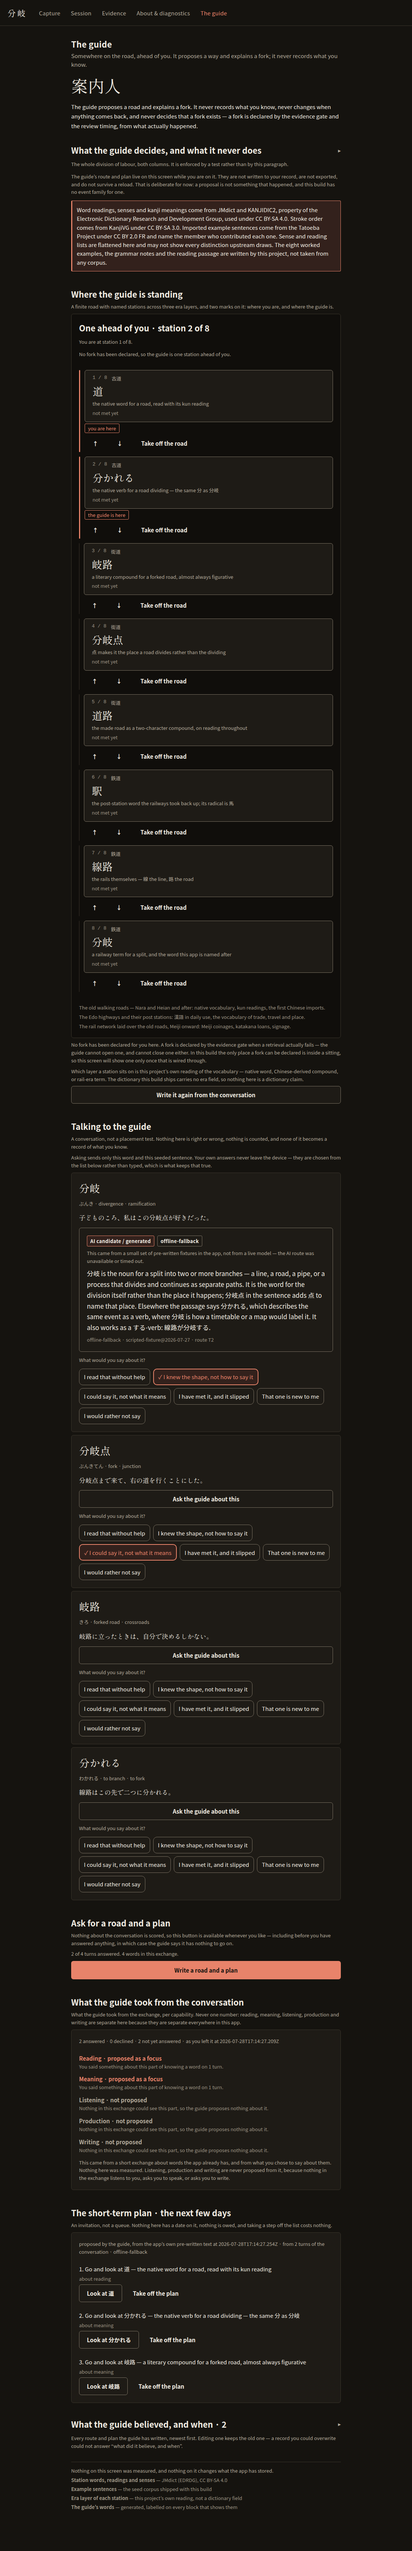
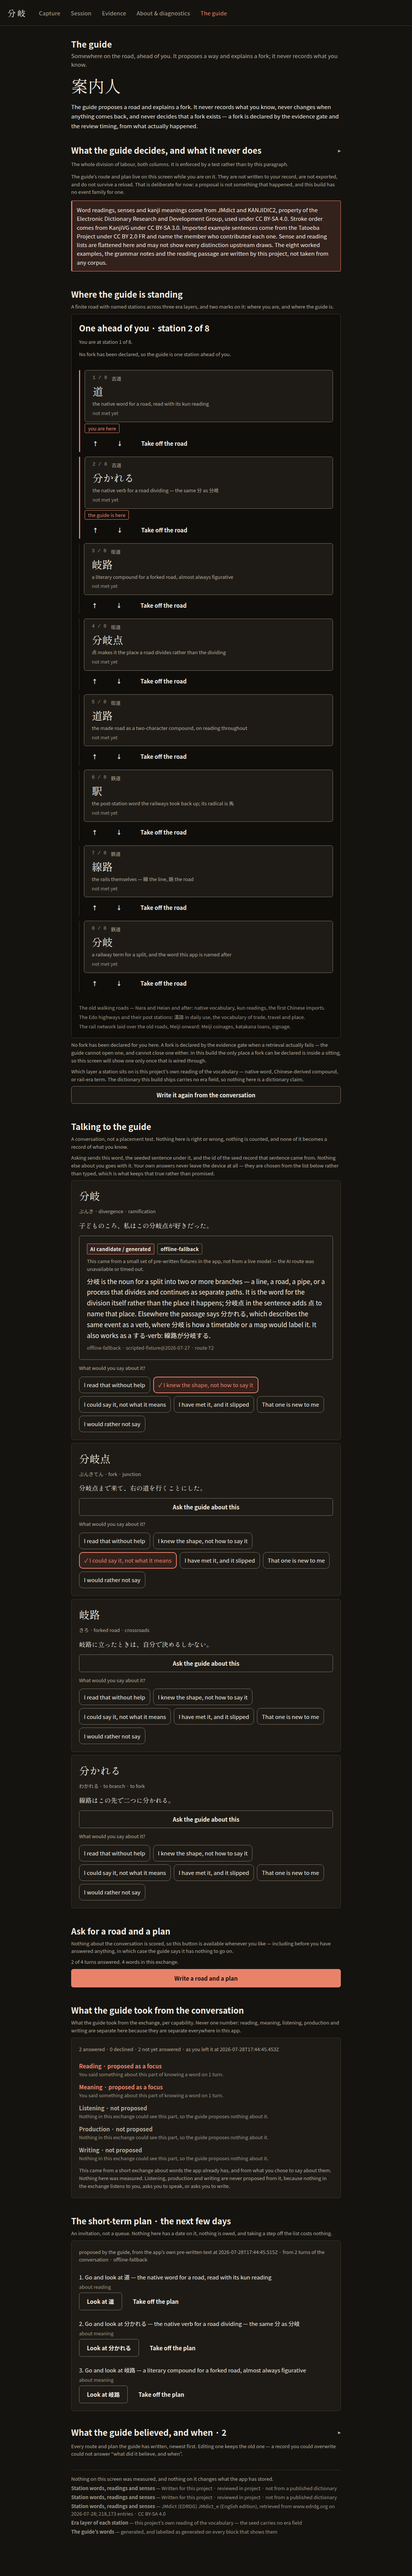
B6(guide): derive the attribution from the seed, and enumerate what is sent
Two self-review fixes, both of the drift class this project keeps catching.

The attribution footer stated 'JMdict (EDRDG), CC BY-SA 4.0' as a literal. That
is correct today and would keep being said after packages/seed/data/provenance.json
changed. It now comes from provenanceSummary over the first station's own
provenance records — the same function the word and kanji pages render — and a
new assertion fails if any guide file states a licence as a literal outside a
comment. The two lines that have no provenance record (the era layer, the
guide's own words) still appear, saying so, because omitting them would leave a
reader to assume the whole screen is sourced.

The conversation panel said "asking sends only this word and this seeded
sentence". The request also carries the seed record's id. "Only" was nearly
true, and the value of a sentence like that is that a reader can check it
against AiThreadContext. It now enumerates all three fields.

Screenshots re-taken against the rebuilt export.

Claude-Session: https://claude.ai/code/session_013RpFnk2DujKCqfdoidgckc

Changed region(s): [[0.1545, 0.0, 0.8345, 0.9969]]

diff --git a/apps/app/test/guide-boundary.test.ts b/apps/app/test/guide-boundary.test.ts
@@ -35,6 +35,8 @@ import { describe, expect, it } from 'vitest';
 import { CANDIDATE_LABEL, OFFLINE_FALLBACK_LABEL } from '@bunki/ai';
 import { GUIDE_ACTION_KINDS, GUIDE_AUTHORITY, GUIDE_BOUNDARY_RULE } from '@bunki/domain';
 
+import { guideAttributionLines } from '../src/ui/guide/guide-content.ts';
+
 const APP_ROOT = resolve(dirname(fileURLToPath(import.meta.url)), '..');
 const GUIDE_UI = resolve(APP_ROOT, 'src/ui/guide');
 const GUIDE_SCREEN = resolve(APP_ROOT, 'src/screens/guide-screen.tsx');
@@ -237,6 +239,39 @@ describe('the guide surface makes no claim about what the learner knows', () => 
   it('says plainly that its records are not part of the learner’s record', () => {
     const screen = read(GUIDE_SCREEN);
     expect(screen).toContain('not written to your record');
+  });
+
+  /**
+   * The licence a source requires be shown is read, never retyped.
+   *
+   * A screen that restated `CC BY-SA 4.0` would be correct today and would keep
+   * saying it after the seed's provenance changed — the drift class this project
+   * has been bitten by twice on the licence check. `guideAttributionLines`
+   * derives every sourced line from `provenanceSummary`, which is the same
+   * function the word and kanji pages render.
+   */
+  it('derives its attribution from the seed rather than typing a licence', () => {
+    const lines = guideAttributionLines();
+    const sourced = lines.filter((line) => line.field.startsWith('Station words'));
+    expect(sourced.length).toBeGreaterThan(0);
+    // The real licence, arrived at by reading the seed, not by matching a string
+    // this test also typed: it has to name EDRDG because that is what the data
+    // says, and the assertion fails if the derivation stops working.
+    expect(sourced.map((line) => line.source).join(' ')).toMatch(/EDRDG/);
+
+    // Comments stripped: `guide-content.ts` has to *name* the literal it avoids
+    // in order to explain why it avoids it, and a scan that counted prose would
+    // make every explanation of the rule a violation of it.
+    const literals = guideFiles
+      .filter((file) => /CC BY-SA \d/.test(stripComments(read(file))))
+      .map(rel);
+    expect(literals, 'a guide file states a licence as a literal').toEqual([]);
+  });
+
+  it('says which lines are not sourced at all, rather than omitting them', () => {
+    const fields = guideAttributionLines().map((line) => line.field);
+    expect(fields).toContain('Era layer of each station');
+    expect(fields).toContain('The guide’s words');
   });
 
   it('acknowledges the dictionary it displays, unconditionally', () => {

diff --git a/apps/app/src/ui/guide/guide-content.ts b/apps/app/src/ui/guide/guide-content.ts
@@ -41,7 +41,8 @@
 import type { RouteWaypointCandidate } from '@bunki/domain';
 
 import { seededContextFor } from '../../candidate/candidate-context.ts';
-import { findLexemeById } from '../../data/catalog.ts';
+import { findLexemeById, findLexemeByHeadword } from '../../data/catalog.ts';
+import { distinctProvenance, provenanceEntries, provenanceSummary } from '../../data/provenance.ts';
 import type { GuidePromptWithId } from './guide-types.ts';
 
 /** The seed lexeme behind each station, in road order. */
@@ -185,3 +186,48 @@ export const GUIDE_PROMPTS: readonly GuidePromptWithId[] = TURN_LEXEME_IDS.flatM
 export const DEFAULT_ROUTE_TITLE = '分かれた道';
 
 export const DEFAULT_PLAN_TITLE = 'The next few stations';
+
+/**
+ * Where each thing on this screen came from, read out of the seed's own
+ * provenance rather than typed here.
+ *
+ * A hard-coded `'JMdict (EDRDG), CC BY-SA 4.0'` would be correct today and
+ * would go stale silently: the licence lives in `packages/seed/data/provenance.json`
+ * and a screen that restated it would keep saying the old one after it changed.
+ * `provenanceSummary` is the same function the word and kanji pages render, so
+ * all three surfaces say one thing.
+ *
+ * The lines for the era layer and for the guide's own words have no provenance
+ * record because they are not sourced data — one is this project's reading and
+ * the other is generated. Saying so is the point; omitting them would leave a
+ * reader to assume the whole screen is sourced.
+ */
+export function guideAttributionLines(): readonly { field: string; source: string }[] {
+  const station = ROUTE_CANDIDATES[0];
+  const lexeme = station === undefined ? null : findLexemeByHeadword(station.targetForm);
+  const lines: { field: string; source: string }[] = [];
+
+  if (lexeme !== null) {
+    const distinct = distinctProvenance(
+      provenanceEntries(lexeme.provenance).map((entry) => entry.record),
+    );
+    for (const record of distinct) {
+      lines.push({
+        field: 'Station words, readings and senses',
+        source: provenanceSummary(record),
+      });
+    }
+  }
+
+  lines.push(
+    {
+      field: 'Era layer of each station',
+      source: 'this project’s own reading of the vocabulary — the seed carries no era field',
+    },
+    {
+      field: 'The guide’s words',
+      source: 'generated, and labelled as generated on every block that shows them',
+    },
+  );
+  return lines;
+}

diff --git a/apps/app/src/screens/guide-screen.tsx b/apps/app/src/screens/guide-screen.tsx
@@ -45,6 +45,7 @@ import { conversationProgress } from '@bunki/domain';
 import { AttributionFooter } from '../ui/attribution.tsx';
 import {
   GUIDE_PROMPTS,
+  guideAttributionLines,
   GuideBoundaryPanel,
   GuideConversationPanel,
   GuideEstimatePanel,
@@ -211,19 +212,13 @@ export function GuideScreen({ onOpenWord, declaredBranches = [] }: GuideScreenPr
 
       <GuideHistoryPanel ledger={guide.ledger} />
 
+      {/*
+        Derived, not typed. The licence a source requires be shown lives in the
+        seed's provenance records, and a screen that restated it would keep
+        saying the old one after it changed.
+      */}
       <AttributionFooter
-        lines={[
-          { field: 'Station words, readings and senses', source: 'JMdict (EDRDG), CC BY-SA 4.0' },
-          { field: 'Example sentences', source: 'the seed corpus shipped with this build' },
-          {
-            field: 'Era layer of each station',
-            source: 'this project’s own reading, not a dictionary field',
-          },
-          {
-            field: 'The guide’s words',
-            source: 'generated, labelled on every block that shows them',
-          },
-        ]}
+        lines={guideAttributionLines()}
         standing="Nothing on this screen was measured, and nothing on it changes what the app has stored."
         testID="guide-attribution"
       />

diff --git a/apps/app/src/ui/guide/guide-conversation.tsx b/apps/app/src/ui/guide/guide-conversation.tsx
@@ -40,9 +40,17 @@ export interface GuideConversationPanelProps {
   readonly testID?: string | undefined;
 }
 
-/** What is sent, said before anything is sent (OD-08, REQ-ARCH-07). */
+/**
+ * What is sent, said before anything is sent (OD-08, REQ-ARCH-07).
+ *
+ * Enumerated rather than summarised. The request carries exactly the three
+ * fields `AiThreadContext` holds — the written form, the seeded sentence, and
+ * the id of the seed record it came from — plus the envelope's own prompt
+ * metadata. "Only the sentence" would have been *nearly* true, and the whole
+ * value of a sentence like this is that a reader can check it against the type.
+ */
 const SENDING_NOTE =
-  'Asking sends only this word and this seeded sentence. Your own answers never leave the device — they are chosen from the list below rather than typed, which is what keeps that true.';
+  'Asking sends this word, the seeded sentence under it, and the id of the seed record that sentence came from. Nothing else about you goes with it. Your own answers never leave the device at all — they are chosen from the list below rather than typed, which is what keeps that true rather than promised.';
 
 export function GuideConversationPanel({
   conversation,

diff --git a/apps/app/src/ui/guide/index.ts b/apps/app/src/ui/guide/index.ts
@@ -7,7 +7,12 @@
  * the absence rather than trusting it.
  */
 
-export { GUIDE_PROMPTS, LAYER_ATTRIBUTION_NOTE, ROUTE_CANDIDATES } from './guide-content.ts';
+export {
+  GUIDE_PROMPTS,
+  LAYER_ATTRIBUTION_NOTE,
+  ROUTE_CANDIDATES,
+  guideAttributionLines,
+} from './guide-content.ts';
 export { progressFromSnapshot, progressWord, takenUpWaypointIds } from './guide-progress.ts';
 export * from './guide-view-model.ts';
 export { GuideBoundaryPanel } from './guide-boundary.tsx';

diff --git a/docs/build-evidence/screenshots-b6-guide/README.md b/docs/build-evidence/screenshots-b6-guide/README.md
@@ -30,7 +30,7 @@ the first.
   ],
   "speechBlocks": 6,
   "roadRows": 8,
-  "planProvenance": "proposed by the guide, from the app’s own pre-written text at 2026-07-28T17:14:23.138Z · from 2 turns of the conversation · offline-fallback"
+  "planProvenance": "proposed by the guide, from the app’s own pre-written text at 2026-07-28T17:44:41.377Z · from 2 turns of the conversation · offline-fallback"
 }
 ```
 
@@ -51,7 +51,7 @@ the first.
   ],
   "speechBlocks": 6,
   "roadRows": 8,
-  "planProvenance": "proposed by the guide, from the app’s own pre-written text at 2026-07-28T17:14:27.254Z · from 2 turns of the conversation · offline-fallback"
+  "planProvenance": "proposed by the guide, from the app’s own pre-written text at 2026-07-28T17:44:45.515Z · from 2 turns of the conversation · offline-fallback"
 }
 ```
 
